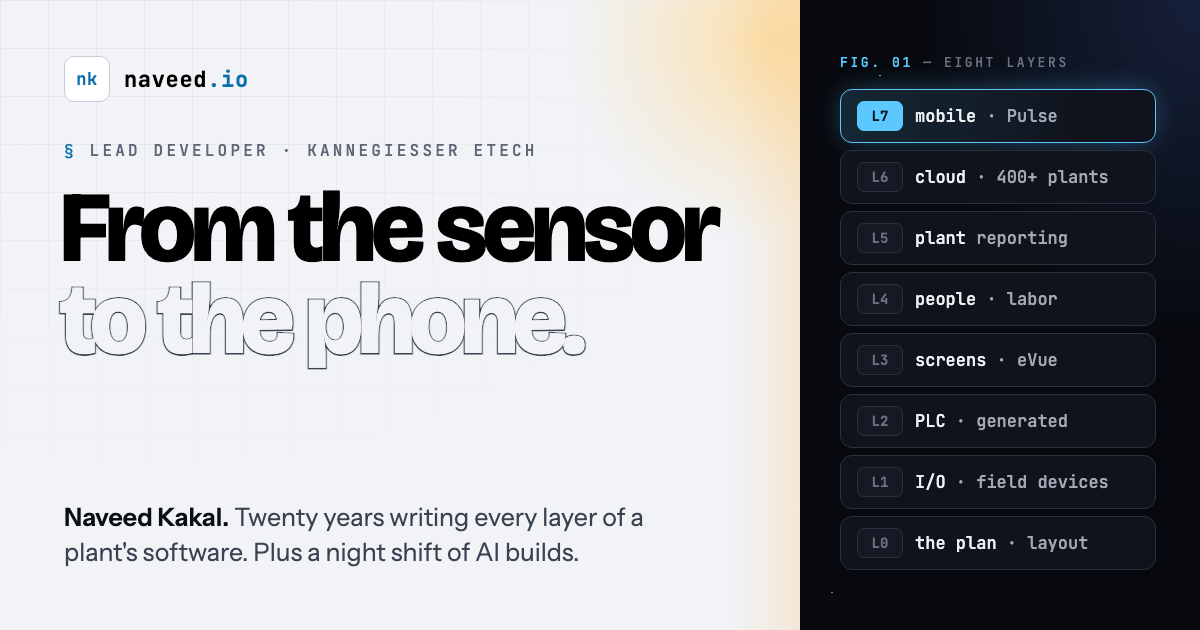
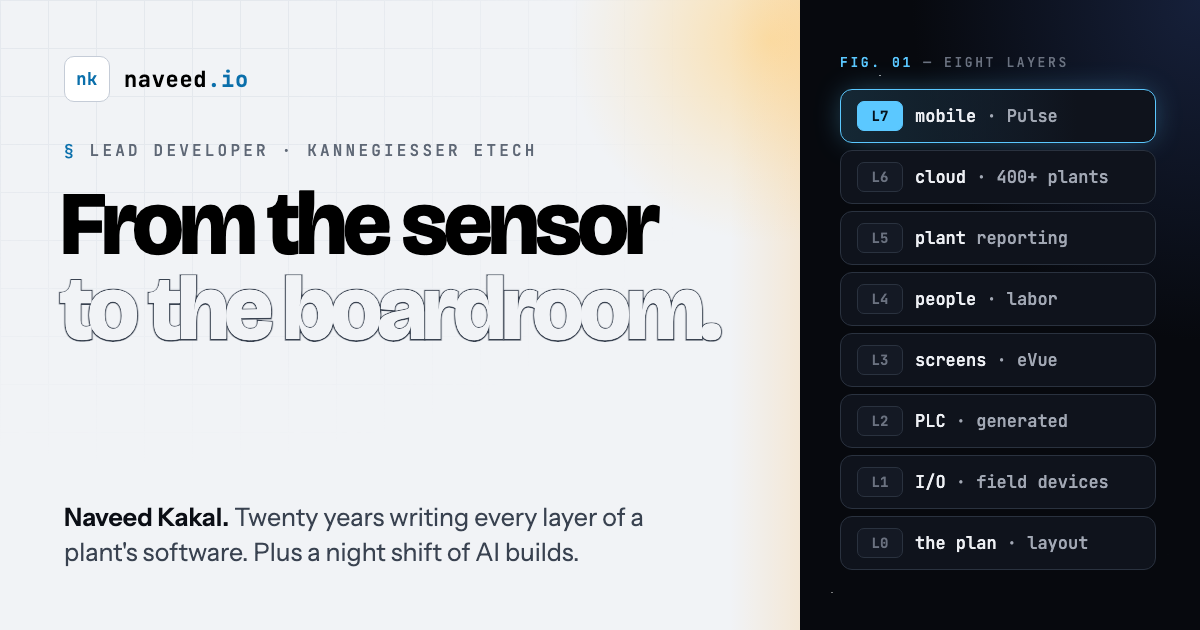
Tagline: from the sensor to the boardroom

Changed region(s): [[0.0308, 0.3016, 0.6167, 0.573]]

diff --git a/index.html b/index.html
@@ -3,7 +3,7 @@
 <head>
 <meta charset="utf-8" />
 <meta name="viewport" content="width=device-width, initial-scale=1" />
-<title>Naveed Kakal — Industrial automation software, from PLC to phone</title>
+<title>Naveed Kakal — Industrial automation software, from sensor to boardroom</title>
 <meta name="description" content="Naveed Kakal, Lead Developer at Kannegiesser ETECH. 20 years of industrial automation and material handling software, from PLC programs to mobile." />
 <meta name="author" content="Naveed Kakal" />
 <meta name="robots" content="index, follow, max-image-preview:large" />
@@ -17,18 +17,18 @@
 <meta property="og:site_name" content="naveed.io" />
 <meta property="og:locale" content="en_US" />
 <meta property="og:url" content="https://naveed.io/" />
-<meta property="og:title" content="Naveed Kakal — industrial automation software, from the sensor to the phone" />
+<meta property="og:title" content="Naveed Kakal — industrial automation software, from the sensor to the boardroom" />
 <meta property="og:description" content="Twenty years writing every layer of an industrial plant's software: the layout, PLC programs, plant control, labor tracking, reporting, cloud and mobile. Plus a night shift of AI builds." />
-<meta property="og:image" content="https://naveed.io/assets/og.png?v=20261029" />
+<meta property="og:image" content="https://naveed.io/assets/og.png?v=20261030" />
 <meta property="og:image:width" content="1200" />
 <meta property="og:image:height" content="630" />
-<meta property="og:image:alt" content="Naveed Kakal. From the sensor to the phone: an industrial plant's software stack in eight layers, from the plan to mobile." />
+<meta property="og:image:alt" content="Naveed Kakal. From the sensor to the boardroom: an industrial plant's software stack in eight layers, from the plan to mobile." />
 <meta property="profile:first_name" content="Naveed" />
 <meta property="profile:last_name" content="Kakal" />
 <meta name="twitter:card" content="summary_large_image" />
-<meta name="twitter:title" content="Naveed Kakal — industrial automation software, from the sensor to the phone" />
-<meta name="twitter:description" content="Twenty years writing every layer of an industrial plant's software, from the PLC to the phone. Plus a night shift of AI builds." />
-<meta name="twitter:image" content="https://naveed.io/assets/og.png?v=20261029" />
+<meta name="twitter:title" content="Naveed Kakal — industrial automation software, from the sensor to the boardroom" />
+<meta name="twitter:description" content="Twenty years writing every layer of an industrial plant's software, from the PLC to the boardroom. Plus a night shift of AI builds." />
+<meta name="twitter:image" content="https://naveed.io/assets/og.png?v=20261030" />
 <meta name="twitter:image:alt" content="Naveed Kakal. An industrial plant's software stack in eight layers, from the plan to mobile." />
 <script type="application/ld+json">
 {
@@ -47,7 +47,7 @@
       "@type": "ProfilePage",
       "@id": "https://naveed.io/#page",
       "url": "https://naveed.io/",
-      "name": "Naveed Kakal — Industrial automation software, from PLC to phone",
+      "name": "Naveed Kakal — Industrial automation software, from sensor to boardroom",
       "isPartOf": { "@id": "https://naveed.io/#site" },
       "dateModified": "2026-10-27",
       "mainEntity": { "@id": "https://naveed.io/#naveed" }
@@ -149,7 +149,7 @@
         <div class="ph"><img src="assets/portrait-900.jpg" alt="Naveed Kakal, in a navy knit sweater, looking at the camera" width="675" height="900" fetchpriority="high" /></div>
         <figcaption><span>fig. 00 — on the day shift</span><span>QA dept. not pictured</span></figcaption>
       </figure>
-      <p class="tagline rise in" style="transition-delay:.04s">From the sensor <span class="dim">to the phone.</span></p>
+      <p class="tagline rise in" style="transition-delay:.04s">From the sensor <span class="dim">to the boardroom.</span></p>
     </div>
 
     <div class="hero-grid">
@@ -230,7 +230,7 @@
   <div class="wrap">
     <div class="sec-head"><div class="kicker"><span class="acc">§ 02</span> — the stack, bottom up</div><div class="kicker">eight layers · one person · since 2006</div></div>
     <h2 class="h-sec" id="h-climb">Every layer of a plant. <span class="stroke">I've written code in all of them.</span></h2>
-    <p class="lead rise">Most software careers are one cubicle on one floor of the building. <span class="dim">I've worked every desk on every floor, and I take the stairs: from the bit a sensor flips to the alert on a supervisor's phone.</span></p>
+    <p class="lead rise">Most software careers are one cubicle on one floor of the building. <span class="dim">I've worked every desk on every floor, and I take the stairs: from the bit a sensor flips to the report on the boardroom table.</span></p>
 
     <div class="climb-grid">
       <div class="steps">

diff --git a/apps/hushbin.html b/apps/hushbin.html
@@ -10,9 +10,9 @@
 <meta property="og:url" content="https://naveed.io/apps/hushbin.html" />
 <meta property="og:title" content="Hushbin — an end-to-end encrypted pastebin · naveed.io" />
 <meta property="og:description" content="Share sensitive text between your own devices without trusting the server. AES-256, encrypted client-side, the passphrase never leaves your browser." />
-<meta property="og:image" content="https://naveed.io/assets/og.png?v=20261029" />
+<meta property="og:image" content="https://naveed.io/assets/og.png?v=20261030" />
 <meta name="twitter:card" content="summary_large_image" />
-<meta name="twitter:image" content="https://naveed.io/assets/og.png?v=20261029" />
+<meta name="twitter:image" content="https://naveed.io/assets/og.png?v=20261030" />
 <link rel="preconnect" href="https://fonts.googleapis.com" />
 <link rel="preconnect" href="https://fonts.gstatic.com" crossorigin />
 <link href="https://fonts.googleapis.com/css2?family=Bricolage+Grotesque:opsz,wght@12..96,500;12..96,700;12..96,800&family=Instrument+Sans:wght@400;500;600&family=JetBrains+Mono:wght@400;500;700&display=swap" rel="stylesheet" />

diff --git a/apps/ourworkshop.html b/apps/ourworkshop.html
@@ -10,9 +10,9 @@
 <meta property="og:url" content="https://naveed.io/apps/ourworkshop.html" />
 <meta property="og:title" content="OurWorkshop — a multi-tenant shop OS · naveed.io" />
 <meta property="og:description" content="A white-label back office for custom-maker shops — lead → quote → multi-week build → deliver, with the client watching progress the whole way." />
-<meta property="og:image" content="https://naveed.io/assets/og.png?v=20261029" />
+<meta property="og:image" content="https://naveed.io/assets/og.png?v=20261030" />
 <meta name="twitter:card" content="summary_large_image" />
-<meta name="twitter:image" content="https://naveed.io/assets/og.png?v=20261029" />
+<meta name="twitter:image" content="https://naveed.io/assets/og.png?v=20261030" />
 <link rel="preconnect" href="https://fonts.googleapis.com" />
 <link rel="preconnect" href="https://fonts.gstatic.com" crossorigin />
 <link href="https://fonts.googleapis.com/css2?family=Bricolage+Grotesque:opsz,wght@12..96,500;12..96,700;12..96,800&family=Instrument+Sans:wght@400;500;600&family=JetBrains+Mono:wght@400;500;700&display=swap" rel="stylesheet" />

diff --git a/apps/weave.html b/apps/weave.html
@@ -10,9 +10,9 @@
 <meta property="og:url" content="https://naveed.io/apps/weave.html" />
 <meta property="og:title" content="Weave — industrial laundry CMMS · naveed.io" />
 <meta property="og:description" content="Twenty years on the laundry floor, distilled into one super-app. PM scheduling, work orders, parts, and AI throughout." />
-<meta property="og:image" content="https://naveed.io/assets/og.png?v=20261029" />
+<meta property="og:image" content="https://naveed.io/assets/og.png?v=20261030" />
 <meta name="twitter:card" content="summary_large_image" />
-<meta name="twitter:image" content="https://naveed.io/assets/og.png?v=20261029" />
+<meta name="twitter:image" content="https://naveed.io/assets/og.png?v=20261030" />
 <link rel="preconnect" href="https://fonts.googleapis.com" />
 <link rel="preconnect" href="https://fonts.gstatic.com" crossorigin />
 <link href="https://fonts.googleapis.com/css2?family=Bricolage+Grotesque:opsz,wght@12..96,500;12..96,700;12..96,800&family=Instrument+Sans:wght@400;500;600&family=JetBrains+Mono:wght@400;500;700&display=swap" rel="stylesheet" />

diff --git a/apps/petalpost.html b/apps/petalpost.html
@@ -10,9 +10,9 @@
 <meta property="og:url" content="https://naveed.io/apps/petalpost.html" />
 <meta property="og:title" content="PetalPost — postcards, mailed for real · naveed.io" />
 <meta property="og:description" content="Design a card, tie a note, hit send — a real 4×6 postcard drops in someone's mailbox a few days later." />
-<meta property="og:image" content="https://naveed.io/assets/og.png?v=20261029" />
+<meta property="og:image" content="https://naveed.io/assets/og.png?v=20261030" />
 <meta name="twitter:card" content="summary_large_image" />
-<meta name="twitter:image" content="https://naveed.io/assets/og.png?v=20261029" />
+<meta name="twitter:image" content="https://naveed.io/assets/og.png?v=20261030" />
 <link rel="preconnect" href="https://fonts.googleapis.com" />
 <link rel="preconnect" href="https://fonts.gstatic.com" crossorigin />
 <link href="https://fonts.googleapis.com/css2?family=Bricolage+Grotesque:opsz,wght@12..96,500;12..96,700;12..96,800&family=Instrument+Sans:wght@400;500;600&family=JetBrains+Mono:wght@400;500;700&display=swap" rel="stylesheet" />

diff --git a/apps/picpost.html b/apps/picpost.html
@@ -10,9 +10,9 @@
 <meta property="og:url" content="https://naveed.io/apps/picpost.html" />
 <meta property="og:title" content="PicPost — your photos, on paper · naveed.io" />
 <meta property="og:description" content="Drop in a photo, add a line, and it's printed and mailed as a proper postcard. The one people keep asking me for." />
-<meta property="og:image" content="https://naveed.io/assets/og.png?v=20261029" />
+<meta property="og:image" content="https://naveed.io/assets/og.png?v=20261030" />
 <meta name="twitter:card" content="summary_large_image" />
-<meta name="twitter:image" content="https://naveed.io/assets/og.png?v=20261029" />
+<meta name="twitter:image" content="https://naveed.io/assets/og.png?v=20261030" />
 <link rel="preconnect" href="https://fonts.googleapis.com" />
 <link rel="preconnect" href="https://fonts.gstatic.com" crossorigin />
 <link href="https://fonts.googleapis.com/css2?family=Bricolage+Grotesque:opsz,wght@12..96,500;12..96,700;12..96,800&family=Instrument+Sans:wght@400;500;600&family=JetBrains+Mono:wght@400;500;700&display=swap" rel="stylesheet" />

diff --git a/writing/seventeen-years-same-problem.html b/writing/seventeen-years-same-problem.html
@@ -12,11 +12,11 @@
 <meta property="og:url" content="https://naveed.io/writing/seventeen-years-same-problem.html" />
 <meta property="og:title" content="Seventeen years in the same problem" />
 <meta property="og:description" content="What concentrated experience inside one industrial system actually buys you — two god models, a deleted production database, and a pot of apology coffee in Ottawa." />
-<meta property="og:image" content="https://naveed.io/assets/og.png?v=20261029" />
+<meta property="og:image" content="https://naveed.io/assets/og.png?v=20261030" />
 <meta name="twitter:card" content="summary_large_image" />
 <meta name="twitter:title" content="Seventeen years in the same problem" />
 <meta name="twitter:description" content="What concentrated experience inside one industrial system actually buys you." />
-<meta name="twitter:image" content="https://naveed.io/assets/og.png?v=20261029" />
+<meta name="twitter:image" content="https://naveed.io/assets/og.png?v=20261030" />
 <script type="application/ld+json">
 {
   "@context": "https://schema.org",

diff --git a/writing/arguing-with-your-own-legacy.html b/writing/arguing-with-your-own-legacy.html
@@ -12,11 +12,11 @@
 <meta property="og:url" content="https://naveed.io/writing/arguing-with-your-own-legacy.html" />
 <meta property="og:title" content="Arguing with your own legacy" />
 <meta property="og:description" content="Cathay Pacific's Hong Kong laundry, nine years on eVue 5: a broadcast storm, a server slowed down on purpose, and a 36-hour cutover to eVue v26." />
-<meta property="og:image" content="https://naveed.io/assets/og.png?v=20261029" />
+<meta property="og:image" content="https://naveed.io/assets/og.png?v=20261030" />
 <meta name="twitter:card" content="summary_large_image" />
 <meta name="twitter:title" content="Arguing with your own legacy" />
 <meta name="twitter:description" content="Nine years on eVue 5 at Cathay Pacific's Hong Kong laundry, and the 36-hour move to v26." />
-<meta name="twitter:image" content="https://naveed.io/assets/og.png?v=20261029" />
+<meta name="twitter:image" content="https://naveed.io/assets/og.png?v=20261030" />
 <script type="application/ld+json">
 {
   "@context": "https://schema.org",

diff --git a/writing/teaching-the-condemned.html b/writing/teaching-the-condemned.html
@@ -12,11 +12,11 @@
 <meta property="og:url" content="https://naveed.io/writing/teaching-the-condemned.html" />
 <meta property="og:title" content="Teaching the condemned new tricks" />
 <meta property="og:description" content="Before the tape starts: a car-wash hunch, a licensing-fee villain, a doomed GE stack — and the platform that grew out of its limits." />
-<meta property="og:image" content="https://naveed.io/assets/og.png?v=20261029" />
+<meta property="og:image" content="https://naveed.io/assets/og.png?v=20261030" />
 <meta name="twitter:card" content="summary_large_image" />
 <meta name="twitter:title" content="Teaching the condemned new tricks" />
 <meta name="twitter:description" content="Before the tape starts: the 2006–2009 prehistory of a twenty-year system." />
-<meta name="twitter:image" content="https://naveed.io/assets/og.png?v=20261029" />
+<meta name="twitter:image" content="https://naveed.io/assets/og.png?v=20261030" />
 <script type="application/ld+json">
 {
   "@context": "https://schema.org",

diff --git a/writing/prank-that-brought-him-back.html b/writing/prank-that-brought-him-back.html
@@ -12,11 +12,11 @@
 <meta property="og:url" content="https://naveed.io/writing/prank-that-brought-him-back.html" />
 <meta property="og:title" content="The prank that brought him back" />
 <meta property="og:description" content="The 2014–2017 gap in the tape: leaving laundry for Chicago tech, what Centro taught him, and the fake service call that un-quit him." />
-<meta property="og:image" content="https://naveed.io/assets/og.png?v=20261029" />
+<meta property="og:image" content="https://naveed.io/assets/og.png?v=20261030" />
 <meta name="twitter:card" content="summary_large_image" />
 <meta name="twitter:title" content="The prank that brought him back" />
 <meta name="twitter:description" content="The 2014–2017 gap in the tape, and the fake service call that ended it." />
-<meta name="twitter:image" content="https://naveed.io/assets/og.png?v=20261029" />
+<meta name="twitter:image" content="https://naveed.io/assets/og.png?v=20261030" />
 <script type="application/ld+json">
 {
   "@context": "https://schema.org",
